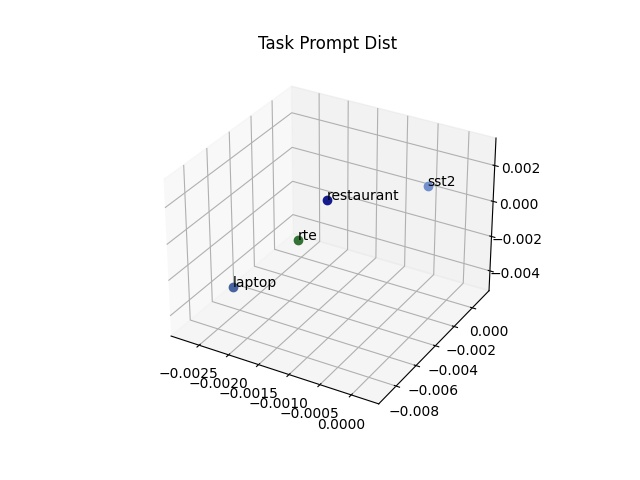
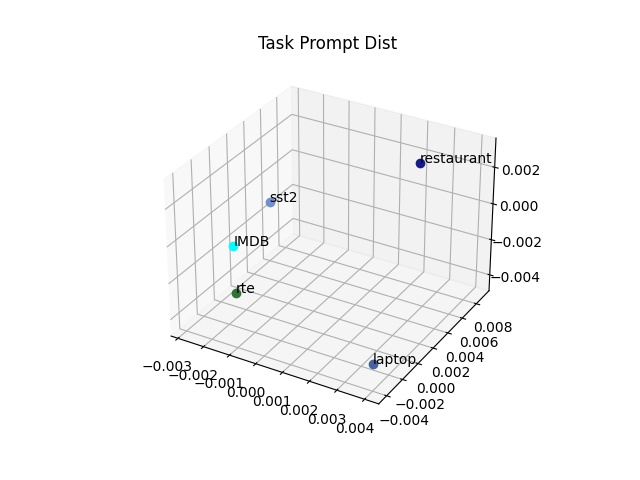
update

Changed region(s): [[0.2188, 0.2188, 0.8438, 0.9062]]

diff --git a/draw_cuda_taskprompt.py b/draw_cuda_taskprompt.py
@@ -353,6 +353,9 @@ laptop_label_ten[laptop_label_ten==1]=9
 #10
 restaurant_label_ten = torch.ones(int(restaurant_ten.shape[0]),dtype=torch.int32)
 restaurant_label_ten[restaurant_label_ten==1]=10
+#11
+IMDB_label_ten = torch.ones(int(IMDB_ten.shape[0]),dtype=torch.int32)
+IMDB_label_ten[IMDB_label_ten==1]=11
 
 #print(sst2_label_ten.shape)
 #print(rte_label_ten.shape)
@@ -360,11 +363,11 @@ restaurant_label_ten[restaurant_label_ten==1]=10
 
 #all_prompt_emb = torch.cat([sst2_ten,rte_ten,re_ten,MNLI_ten,MRPC_ten,QNLI_ten,QQP_ten,WNLI_ten,STSB_ten,laptop_ten,restaurant_ten]).to("cpu").numpy()
 #all_prompt_emb = torch.cat([sst2_ten,rte_ten,re_ten,MNLI_ten,MRPC_ten,QNLI_ten,QQP_ten,WNLI_ten,STSB_ten,laptop_ten,restaurant_ten])
-all_prompt_emb = torch.stack([sst2_ten,rte_ten,re_ten,MNLI_ten,MRPC_ten,QNLI_ten,QQP_ten,WNLI_ten,STSB_ten,laptop_ten,restaurant_ten])
+all_prompt_emb = torch.stack([sst2_ten,rte_ten,re_ten,MNLI_ten,MRPC_ten,QNLI_ten,QQP_ten,WNLI_ten,STSB_ten,laptop_ten,restaurant_ten,IMDB_ten])
 
 #all_label = torch.cat([sst2_label_ten,rte_label_ten,re_label_ten,MNLI_label_ten,MRPC_label_ten,QNLI_label_ten,QQP_label_ten,WNLI_label_ten,STSB_label_ten,laptop_label_ten,restaurant_label_ten]).to("cpu").numpy()
 #all_label = torch.cat([sst2_label_ten,rte_label_ten,re_label_ten,MNLI_label_ten,MRPC_label_ten,QNLI_label_ten,QQP_label_ten,WNLI_label_ten,STSB_label_ten,laptop_label_ten,restaurant_label_ten])
-all_label = torch.stack([sst2_label_ten,rte_label_ten,re_label_ten,MNLI_label_ten,MRPC_label_ten,QNLI_label_ten,QQP_label_ten,WNLI_label_ten,STSB_label_ten,laptop_label_ten,restaurant_label_ten])
+all_label = torch.stack([sst2_label_ten,rte_label_ten,re_label_ten,MNLI_label_ten,MRPC_label_ten,QNLI_label_ten,QQP_label_ten,WNLI_label_ten,STSB_label_ten,laptop_label_ten,restaurant_label_ten,IMDB_label_ten])
 
 #print(all_prompt_emb.shape)
 #print(all_label.shape)
@@ -426,7 +429,7 @@ blocked_list = []
 #blocked_list = [0,5,8,9,10]
 
 #sentiment, RE
-blocked_list = [5,8,3,4,5,6,7,8,2,11]
+blocked_list = [5,8,3,4,5,6,7,8,2]
 
 #sentiment, NLI
 #blocked_list = [2,4,5,6,8]
